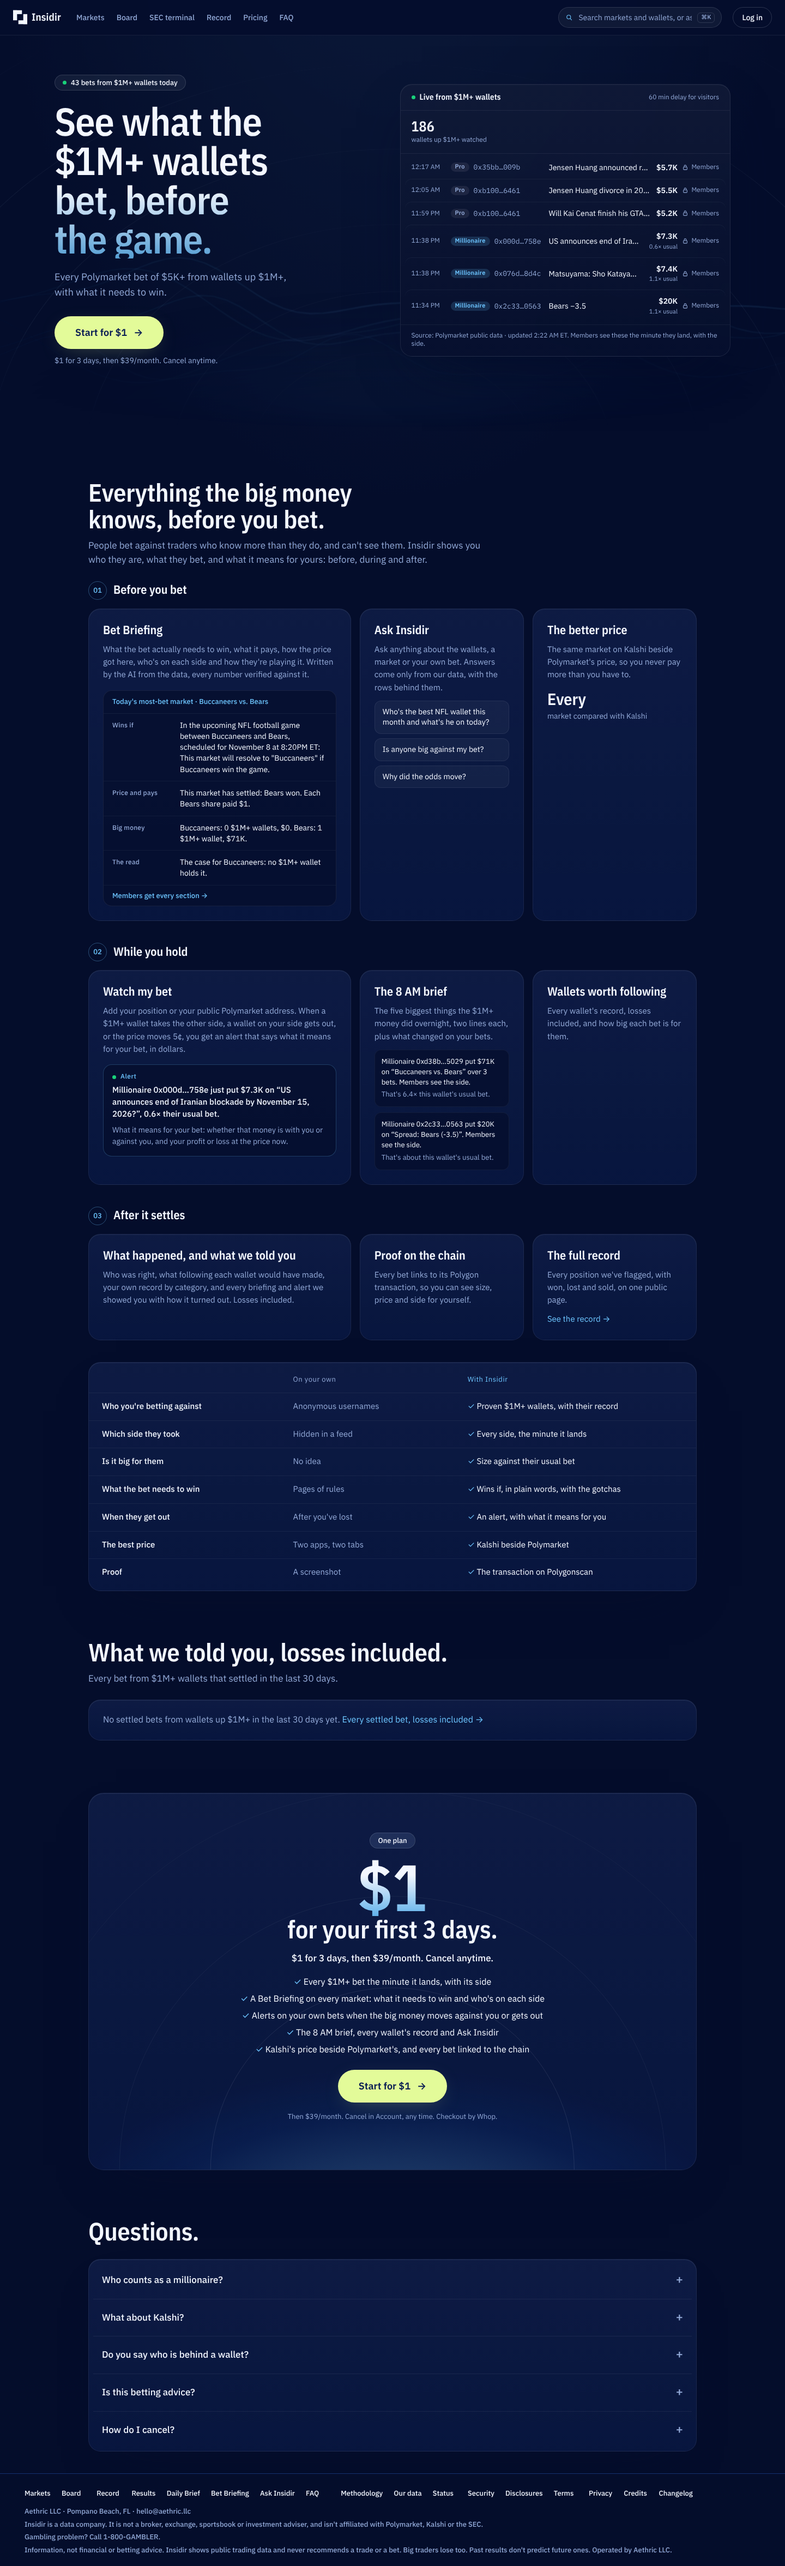
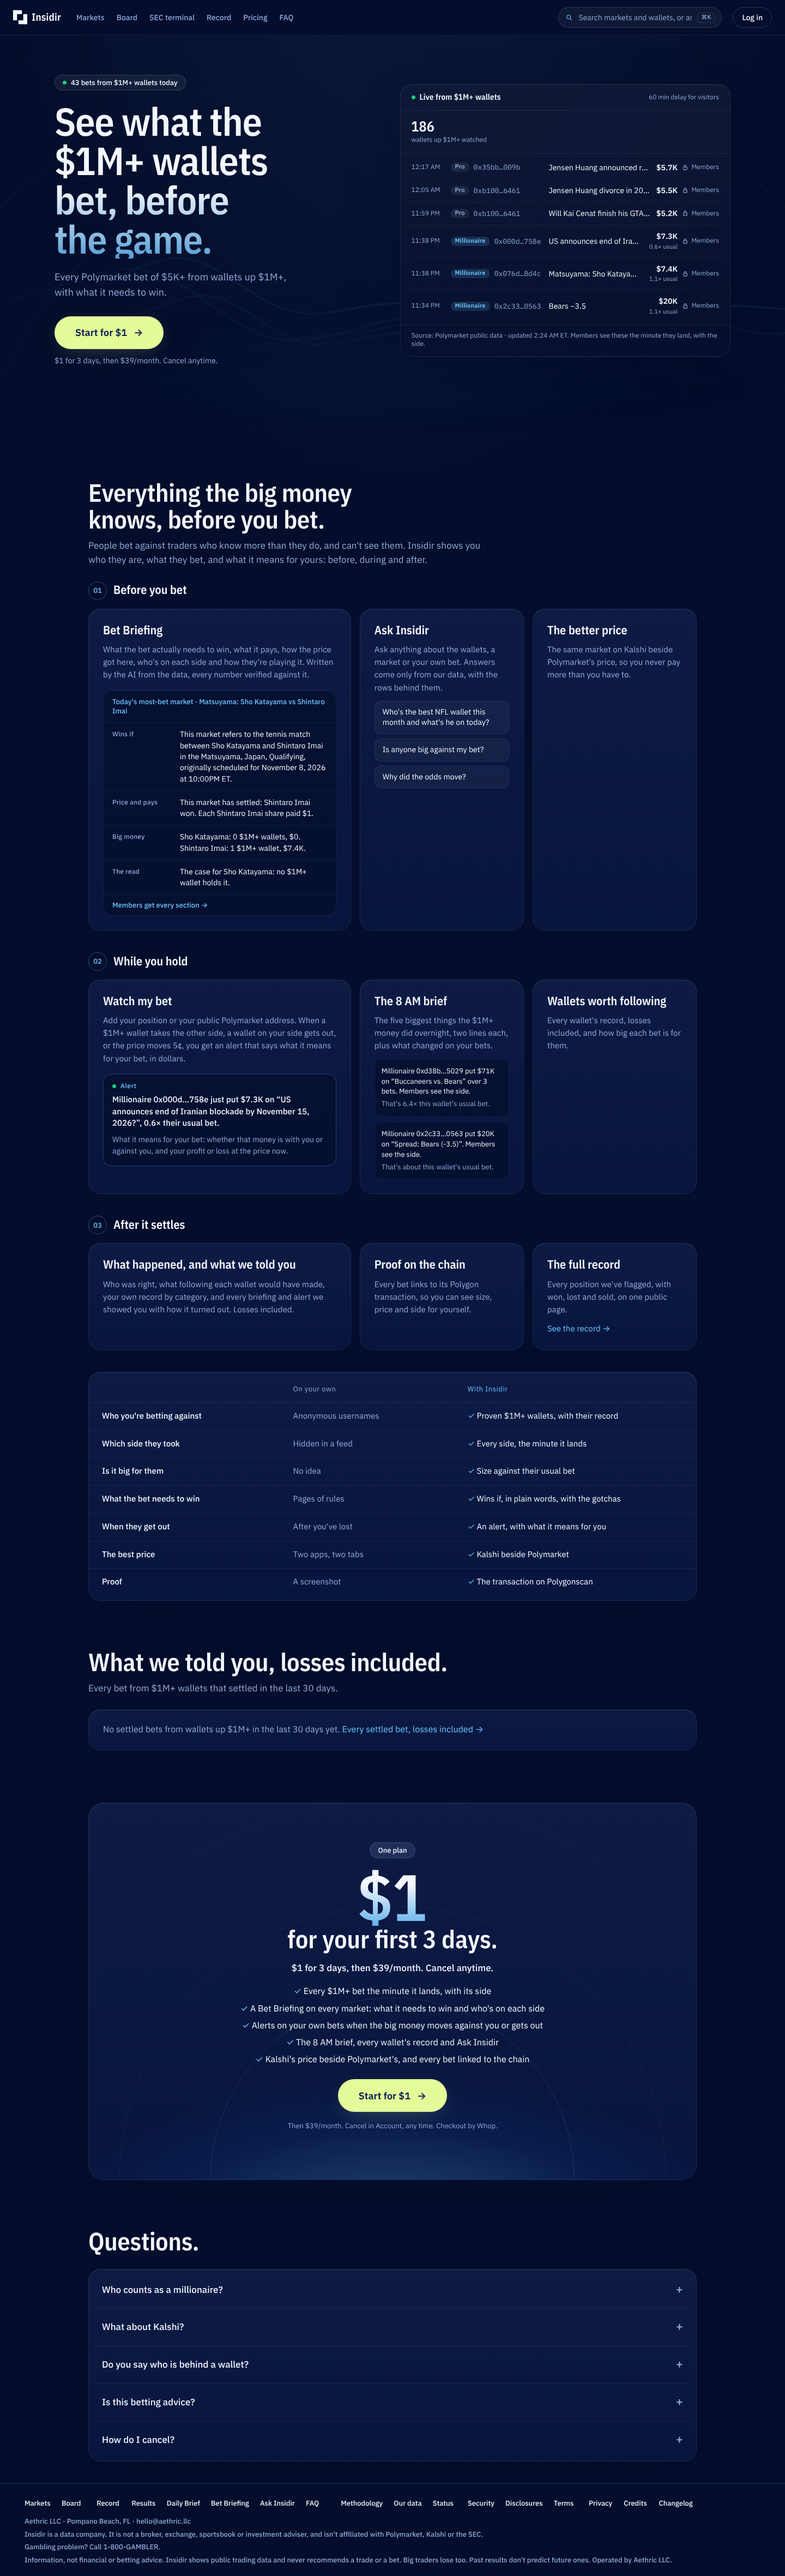
Landing value: the briefing sample is the open market with the most $1M+ money
Claude-Session: https://claude.ai/code/session_013t6J84dbkTPdjdMU1vGwgF

diff --git a/lib/brand/value.ts b/lib/brand/value.ts
@@ -16,7 +16,7 @@ import { gateBriefing } from "@/lib/briefing/gate";
 import { buildBrief } from "@/lib/brief/build";
 import { walletSpotlight, type Spotlight } from "@/lib/brand/pulse";
 import { shortWallet } from "@/lib/millionaires/watchlist";
-import type { BoardBet } from "@/lib/millionaires/queries";
+import { marketMoney, type BoardBet } from "@/lib/millionaires/queries";
 
 export interface Value {
   briefing: { title: string; href: string; lines: Array<{ k: string; t: string }> } | null;
@@ -36,14 +36,26 @@ export function landingValue(db: Db, now: number, lead: readonly BoardBet[]): Pr
   return memo("brand:value", 5 * 60_000, async () => {
     // The biggest open bet: a market still to play, so the briefing reads before the game.
     const open = lead.filter(b => b.result === null && !b.closed);
-    const top = [...(open.length ? open : lead)].sort((a, b) => b.amount - a.amount)[0] ?? null;
     const [briefing, brief, wallet, proof, twins] = await Promise.all([
-      top ? within(getBriefing(db, top.marketId, now).then(b => {
-        if (!b) return null;
-        const g = gateBriefing(b, false);
-        const lines = g.sections.filter(s => LABEL[s.key] && s.lines[0]).map(s => ({ k: LABEL[s.key]!, t: s.lines[0]! }));
-        return lines.length ? { title: b.title, href: `/briefing?m=${encodeURIComponent(b.marketId)}`, lines } : null;
-      }), 4000, null) : Promise.resolve(null),
+      within((async () => {
+        // The first of the three biggest bets whose market is still to settle.
+        // Candidates: the open markets with the most $1M+ money in 3 days, then the latest bets' markets.
+        const money = await marketMoney(db, { since: now - 3 * 86_400_000, limit: 6, now }).catch(() => []);
+        const ids = [...money.sort((a, b) => (b.millionaire.yes.dollars + b.millionaire.no.dollars) - (a.millionaire.yes.dollars + a.millionaire.no.dollars)).map(m => m.marketId),
+          ...[...(open.length ? open : lead)].sort((a, b) => b.amount - a.amount).map(b => b.marketId)];
+        const seen = new Set<string>();
+        for (const id of ids) {
+          if (seen.has(id) || seen.size >= 4) continue;
+          seen.add(id);
+          const c = { marketId: id };
+          const b = await getBriefing(db, c.marketId, now).catch(() => null);
+          if (!b || b.result) continue;
+          const g = gateBriefing(b, false);
+          const lines = g.sections.filter(x => LABEL[x.key] && x.lines[0]).map(x => ({ k: LABEL[x.key]!, t: x.lines[0]! }));
+          if (lines.length) return { title: b.title, href: `/briefing?m=${encodeURIComponent(b.marketId)}`, lines };
+        }
+        return null;
+      })(), 6000, null),
       within(buildBrief(db, now, { member: false, useModel: false }).then(b => b.items.slice(0, 2).map(i => [...i.lines])), 3000, [] as string[][]),
       within(walletSpotlight(db), 3000, null),
       within(db.execute(sql`select market_title, transaction_hash, result, amount from terminal.millionaire_bets
